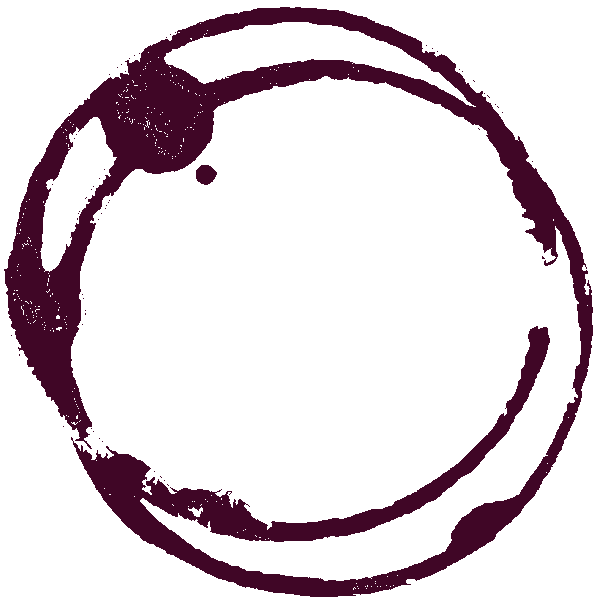
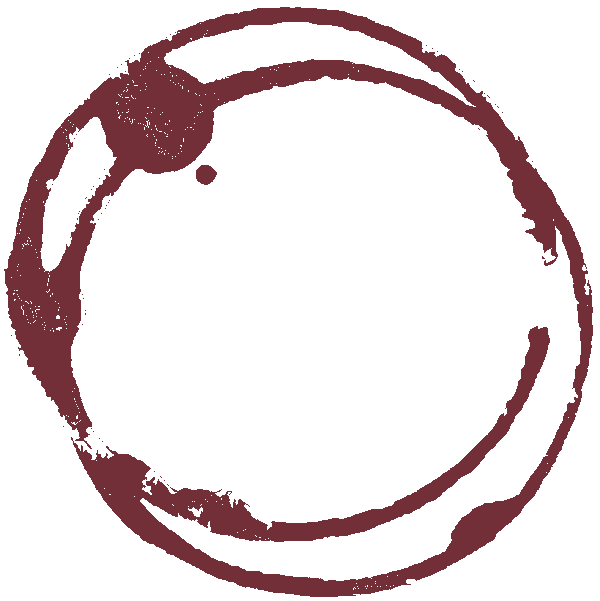
new color

Changed region(s): [[0.0, 0.0, 0.99, 1.0]]

diff --git a/app/scss/_main-history.scss b/app/scss/_main-history.scss
@@ -11,7 +11,7 @@
         width: 300px;
         height: 300px;
         // mix-blend-mode:color-burn;
-        opacity: .8;
+        opacity: .6;
         z-index: 0;
     }
 
